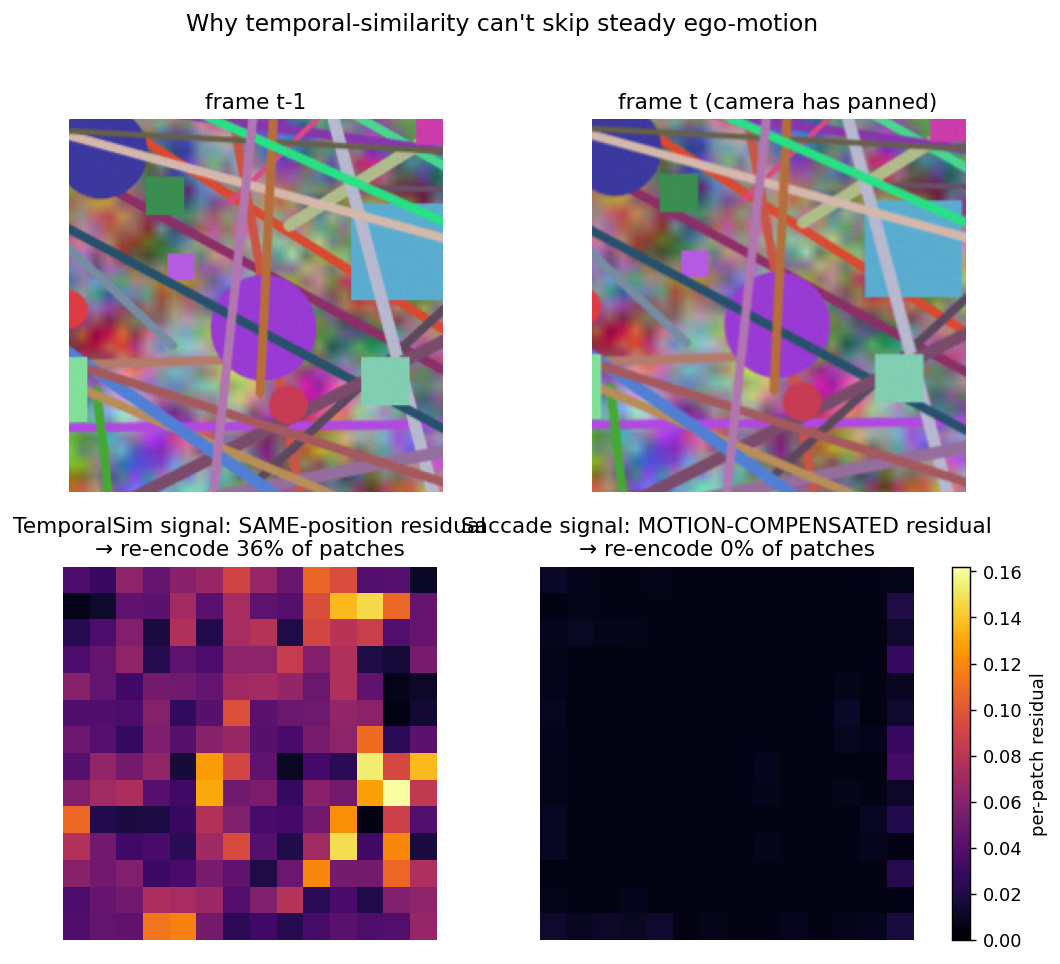
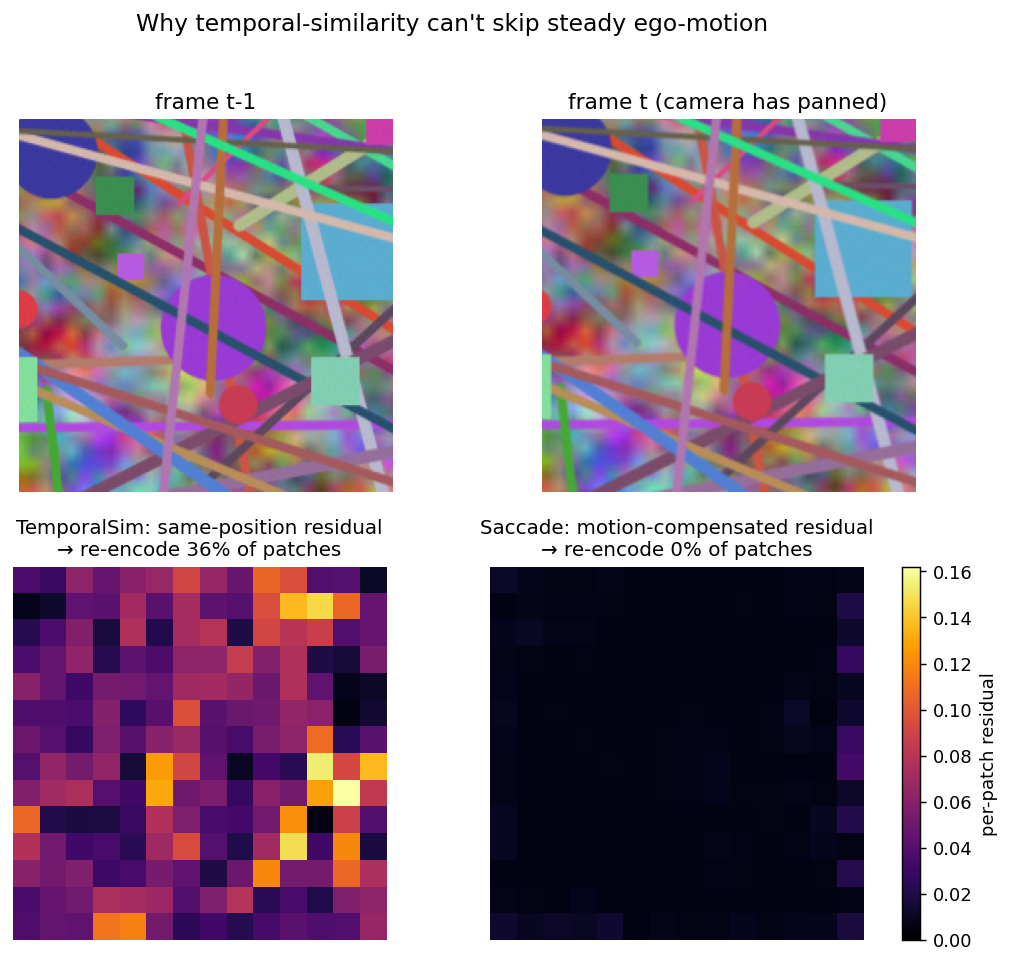
Fix overlapping subplot titles in the centerpiece figure

diff --git a/benchmarks/run.py b/benchmarks/run.py
@@ -163,10 +163,12 @@ def fig_why_temporalsim_fails(frames, labels, img_size, path):
     axs[0, 0].imshow(frames[t - 1]); axs[0, 0].set_title("frame t-1"); axs[0, 0].axis("off")
     axs[0, 1].imshow(frames[t]); axs[0, 1].set_title("frame t (camera has panned)"); axs[0, 1].axis("off")
     im2 = axs[1, 0].imshow(res_same, cmap="inferno", vmin=0, vmax=vmax)
-    axs[1, 0].set_title(f"TemporalSim signal: SAME-position residual\n→ re-encode {b_enc:.0f}% of patches")
+    axs[1, 0].set_title(f"TemporalSim: same-position residual\n→ re-encode {b_enc:.0f}% of patches",
+                        fontsize=11)
     axs[1, 0].axis("off")
     axs[1, 1].imshow(res_mc, cmap="inferno", vmin=0, vmax=vmax)
-    axs[1, 1].set_title(f"Saccade signal: MOTION-COMPENSATED residual\n→ re-encode {c_enc:.0f}% of patches")
+    axs[1, 1].set_title(f"Saccade: motion-compensated residual\n→ re-encode {c_enc:.0f}% of patches",
+                        fontsize=11)
     axs[1, 1].axis("off")
     fig.colorbar(im2, ax=axs[1, :], fraction=0.046, pad=0.04, label="per-patch residual")
     fig.suptitle("Why temporal-similarity can't skip steady ego-motion", fontsize=13)
